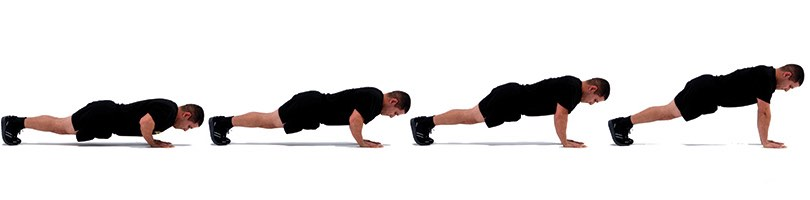
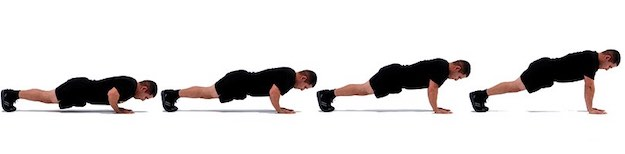
commit

diff --git a/ACFT HRP.html b/ACFT HRP.html
@@ -50,14 +50,14 @@
     <div class = "PTsegment">
       <label>HAND RELEASE PUSH-UP - ARM EXTENSION (HRP)</label>
       <p>In HRP event, the personnel completes as many Hand-Release Push-ups as possible in two minutes. The HRP is an upper body endurance test that represents repetitive and sustained pushing used in combat tasks.</p>
-      <img src="" class="showing" style="width: 100%">
+      <img src="./img/HRP/HRP cover.jpg" class="showing" style="width: 100%">
     </div>
 
     <div class="PTsegment">
       <label>Starting position</label>
       <p>On the command of "GET SET," one Soldier in each lane will assume the prone position facing the start line with hands flat on the ground and index fingers inside the outer edges of the shoulders. The chest and front of the hips and thighs will be on the ground. Toes will touch the ground with feet together or up to a boot's width apart. The ankles will be flexed. The head does not have to be on the ground. Feet will remain generally together, no more than a boot's width apart, throughout the HRP. Soldiers may adjust their feet during the test event as long as they do not lift a foot off the ground.</p>
       <div class="images">
-        <img src="./img/HRP/starting position.jpg1" class="showing">
+        <img src="./img/HRP/starting position.jpg" class="showing">
       </div>
     </div>
 
@@ -65,7 +65,7 @@
       <label>Movement 1</label>
       <p>On the command "GO," a Soldier will push their whole body up from the ground as a single unit to the up position by fully extending the elbows (front leaning rest).</p>
       <div class="images">
-        <img src="./img/HRP/movement 1.jpg1" class="showing" style="width: 100%;">
+        <img src="./img/HRP/movement 1.jpg" class="showing" style="width: 100%;">
       </div>
       <li>The Soldier will maintain a generally straight body alignment from the top of the head to the ankles. This generally straight position will be maintained for the duration of the HRP.</li>
       <br><li>Failing to maintain a generally straight alignment during a repetition will cause that repetition to not count.</li>
@@ -77,7 +77,7 @@
       <label>Movement 2</label>
       <p>After the elbows are fully extended and the Soldier has reached the up position, the Soldier will bend their elbows to lower the body back to the ground. The chest, hips and thighs should touch down at the same time. The head or face do not have to contact the ground.</p>
       <div class="images">
-        <img src="./img/HRP/movement 2.jpg1" class="showing" style="width: 100%">
+        <img src="./img/HRP/movement 2.jpg" class="showing" style="width: 100%">
       </div>
     </div>
 
@@ -85,8 +85,8 @@
       <label>Movement 3</label>
       <p>Arm Extension HRP - immediately move both arms out to the side straightening the elbows into the T position. After reaching this position, the elbows bend to move the hands back under the shoulder.</p>
       <div class="images">
-        <img src="./img/HRP/movement 3a.jpg1" class="showing" style="width: 100%">
-        <img src="./img/HRP/movement 3b.jpg1" class="showing" style="width: 100%">
+        <img src="./img/HRP/movement 3a.jpg" class="showing" style="width: 100%">
+        <img src="./img/HRP/movement 3b.jpg" class="showing" style="width: 100%">
       </div>
     </div>
 

diff --git a/ACFT MDL.html b/ACFT MDL.html
@@ -50,7 +50,7 @@
     <div class ="PTsegment">
       <label>3 REPETITION MAXIMUM DEADLIFT (MDL)</label>
       <p>In MDL event, the personnel deadlifts the maximum weight possible three times. The MDL event represents movements required to safely and effectively lift heavy loads from the ground, jump, bound and tolerate landing. It requires well-conditioned back and leg muscles and helps Soldiers to avoid upper and lower back injuries caused by moving long distances under heavy load.</p>
-      <img src="https://www.army.mil/e2/images/rv7/acft/deadlift/application.jpg" class="showing" style="width: 100%">
+      <img src="./img/MDL/MDL cover.jpg" class="showing" style="width: 100%">
     </div>
 
     <div class="PTsegment">

diff --git a/ACFT SPT.html b/ACFT SPT.html
@@ -50,7 +50,7 @@
     <div class = "PTsegment">
       <label>STANDING POWER THROW (SPT)</label>
       <p>In SPT event of the ACFT, the personnel throws a 10-pound medicine ball backward and overhead for distance. The SPT event represents tasks requiring quick explosive movements to maneuver equipment and personnel.</p>
-      <img src="https://www.army.mil/e2/images/rv7/acft/throw/application.jpg" class="showing" style="width: 100%">
+      <img src="./img/SPT/SPT cover.jpg" class="showing" style="width: 100%">
     </div>
 
     <div class="PTsegment">
